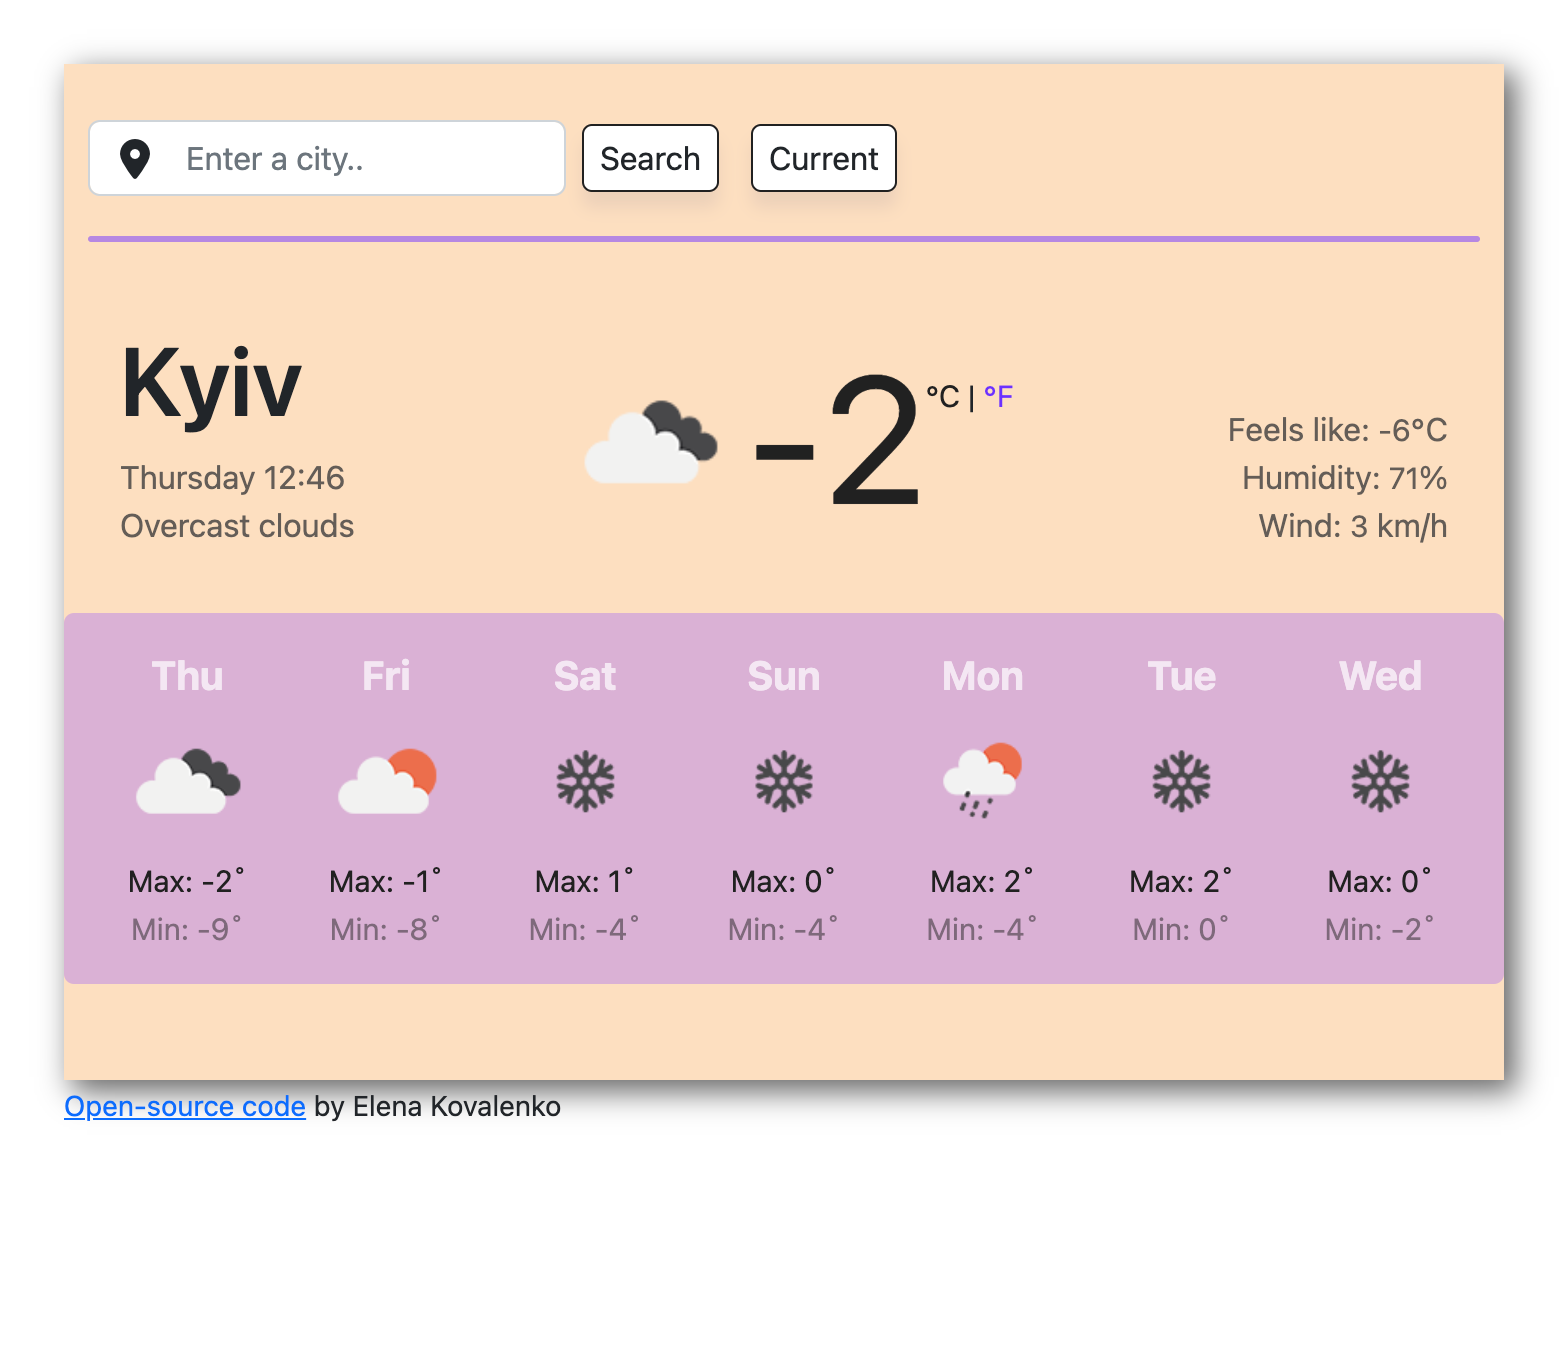
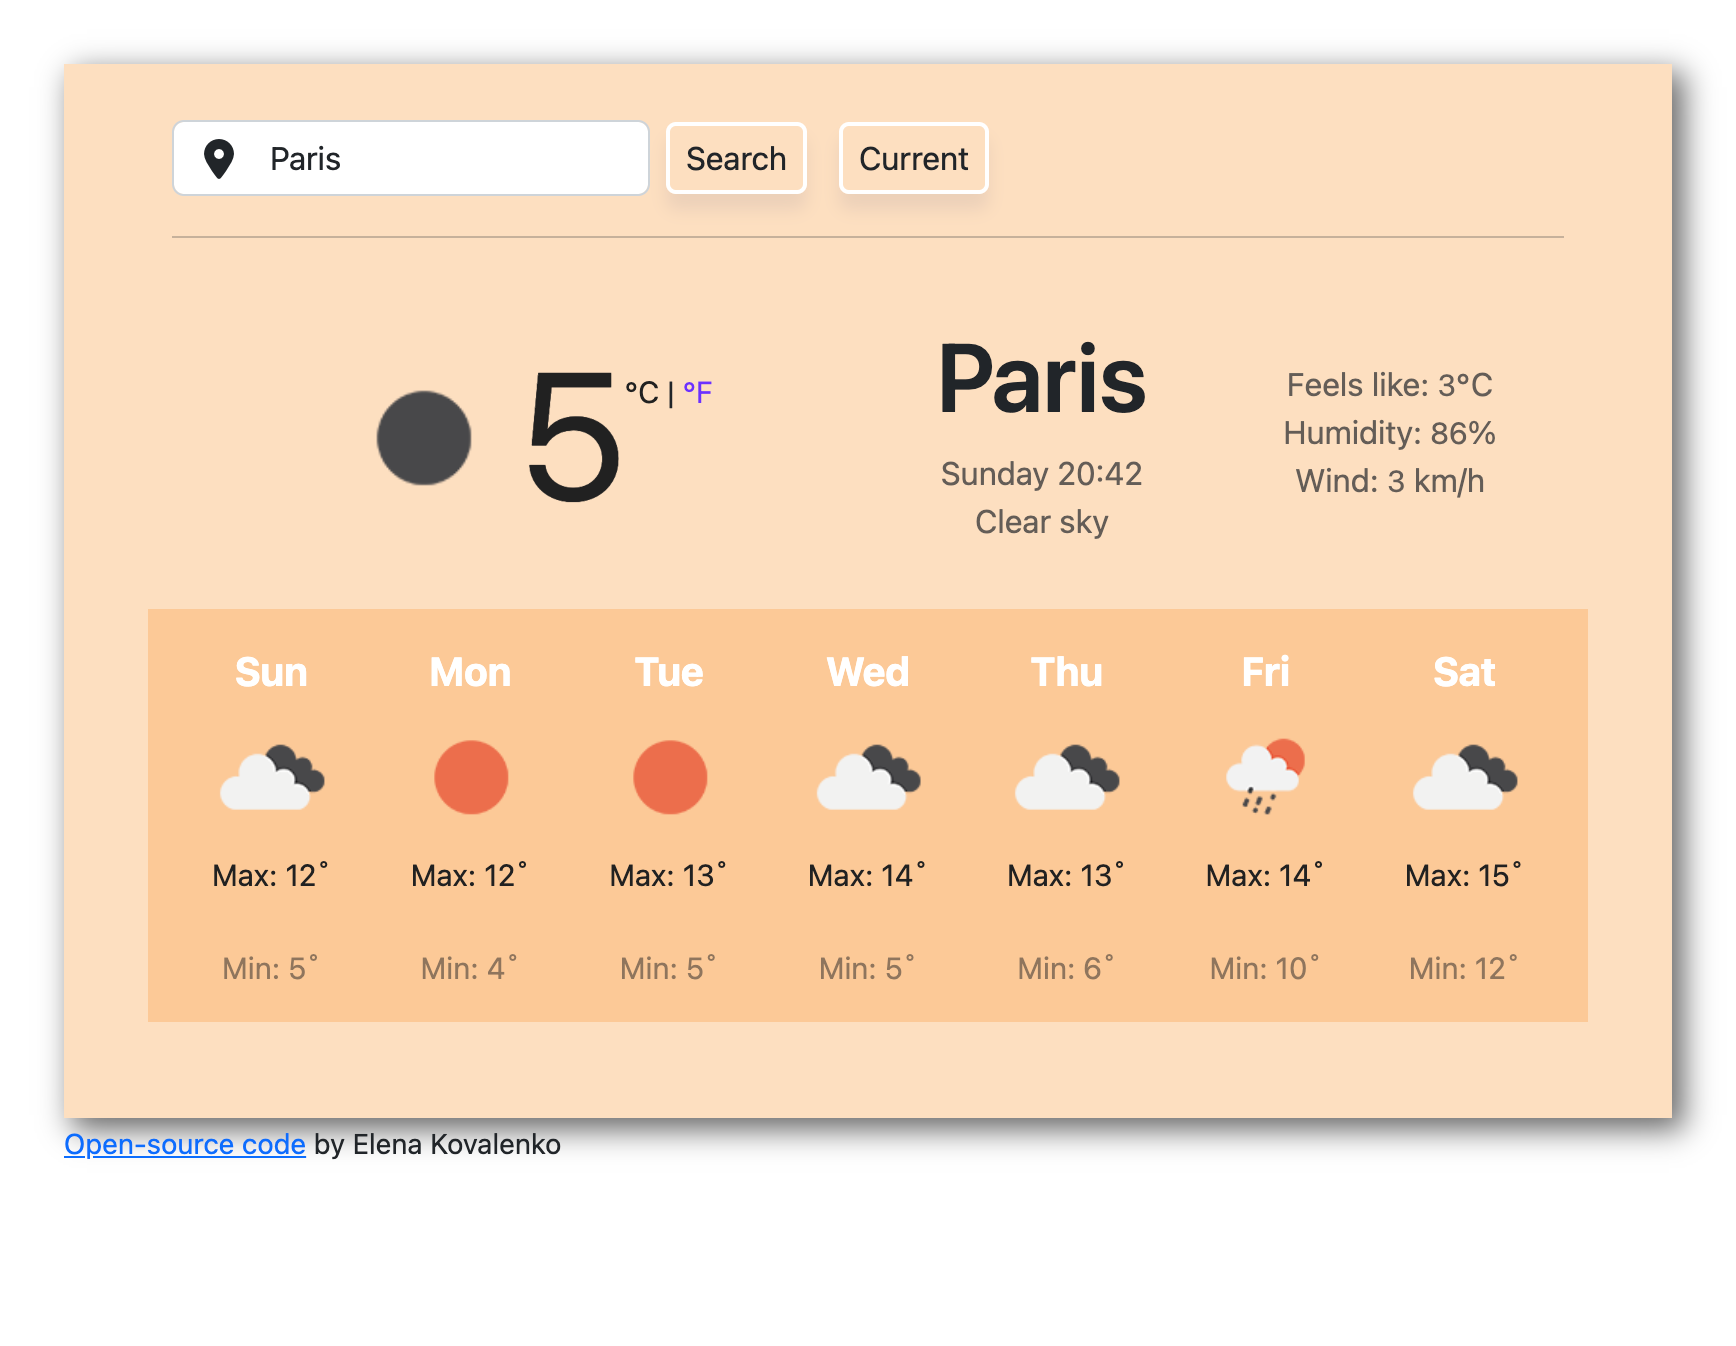
designed display for mobile forecast

diff --git a/src/style.css b/src/style.css
@@ -1,7 +1,7 @@
 :root {
     --main-color: #6c31ff;
     --background-main: #fcca979c;
-    --background-forecast: #894aff4d;
+    --background-forecast: #fcc997;
     --white: #fff;
     --border-box: rgb(108, 49, 255, .3);
     --black: rgb(33, 33, 33);
@@ -38,42 +38,6 @@ body {
     background: var(--background-main);
     justify-content: space-around;
 }
-
-
-/* .line {
-    width: 100%;
-    height: 3px;
-    border: 0 none;
-    border-radius: 5px;
-    background-color: var(--main-color);
-    opacity: .5;
-} */
-
-
-/* .city .style-a {
-    text-decoration: none;
-    color: var(--main-color);
-    font-size: 15px;
-    font-weight: 600;
-    position: relative;
-}
-
-.city .style-a:before {
-    content: '';
-    bottom: 0;
-    left: 0;
-    position: absolute;
-    width: 100%;
-    height: 2px;
-    background-color: var(--ƒ-color);
-    transition: 0.2s;
-    transform: scaleX(0);
-    opacity: 0.5;
-} */
-
-/* .city .style-a:hover:before {
-    transform: scaleX(1);
-} */
 
 .enter-city {
     position: relative;
@@ -122,9 +86,9 @@ button.btn {
 }
 
 .button.btn:hover {
-    background-color: var(--main-color) !important;
+    background-color: var(--white) !important;
     color: var(--white) !important;
-    border: 2px solid var(--main-color) !important;
+    /* border: 2px solid var(--main-color) !important; */
     opacity: .6;
 }
 
@@ -224,22 +188,20 @@ span {
 .weather-forecast {
     display: flex;
     background-color: var(--background-forecast);
-    border-radius: 5px;
+    /* border-radius: 5px; */
     padding: 1em 0;
 }
 
 .box-day {
     text-align: center;
     color: var(--black);
-    /* border: 1.3px solid var(--border-box); */
-    /* border-radius: 5px; */
     width: 100% !important;
     justify-content: center;
 }
 
 .day-of-week {
     font-size: 20px;
-    opacity: .7;
+    /* opacity: .7; */
     color: var(--white);
     font-weight: 700;
 }
@@ -250,7 +212,15 @@ span {
 }
 
 .weather-forecast-temp {
+    display: flex;
     font-size: 16px;
+    flex-direction: column;
+}
+
+.item {
+    align-items: center;
+    flex-direction: column;
+    justify-content: center;
 }
 
 @media (max-width: 576px) {
@@ -266,10 +236,14 @@ span {
     .main {
         display: flex;
         flex-direction: column;
-        flex-wrap: wrap;
         justify-content: center;
+        align-items: center;
     }
 
+    .weather-forecast-temp {
+        font-size: 16px;
+        flex-direction: row;
+    }
 }
 
 @media (max-width: 768px) {
@@ -282,12 +256,24 @@ span {
         align-items: center;
     }
 
+    .main {
+        display: flex;
+        flex-direction: column;
+        justify-content: center;
+        align-items: center;
+    }
 
-    /* img.img-fluid {
-        padding: 0;
-        width: 84px;
-        height: 84px;
-    } */
+    .inner-box-day {
+        flex-direction: row;
+        justify-content: center;
+        align-items: center;
+    }
+
+    .weather-forecast-temp {
+        font-size: 16px;
+        flex-direction: row;
+    }
+
 }
 
 @media (min-width: 992px) {}
@@ -295,10 +281,6 @@ span {
 @media (min-width: 1200px) {
     body {
         padding: 5em 15em;
-    }
-
-    .weather-forecast {
-        flex-wrap: nowrap;
     }
 }
 

diff --git a/index.html b/index.html
@@ -39,15 +39,11 @@
             </form>
             <hr class="line" />
         </div>
-       
+
         <div class="container d-flex mx-3 mt-3 mb-4">
             <div class="container main p-0">
-                <div class="col-xl-4 col-md-3 d-flex flex-column align-items-start mb-2 ">
-                    <h1 id="city">Kyiv</h1>
-                    <div class="my-0" id="day-time"></div>
-                    <div class="my-0" id="description"></div>
-                </div>
-                <div class="col-xl-4 col-md-6 d-flex justify-content-center align-items-top mb-2" id="current-degree">
+
+                <div class="item col-xl-4 col-md-6 d-flex  mb-2" id="current-degree">
                     <div class="clearfix weather-temperature">
                         <img src="" alt="Clear" id="icon" />
                         <span class="temperature" id="temperature"></span>
@@ -57,13 +53,18 @@
                         </span>
                     </div>
                 </div>
-                <div class="col-xl-4 col-md-3 d-flex flex-column justify-content-end align-items-end mb-2">
+                <div class="item col-xl-4 col-md-3 d-flex mb-2 ">
+                    <h1 id="city">Kyiv</h1>
+                    <div class="my-0" id="day-time"></div>
+                    <div class="my-0" id="description"></div>
+                </div>
+                <div class="item col-xl-4 col-md-3 d-flex mb-2">
                     <div class="my-0 precipitation">Feels like: <span id="feels"></span>℃</div>
                     <div class="my-0 humidity">Humidity: <span id="humidity"></span>%</div>
                     <div class="my-0 wind">Wind: <span id="wind"></span> km/h</div>
                 </div>
             </div>
-            
+
         </div>
         <div class="container p-0 d-flex justify-content-center">
             <div class="container weather-forecast d-flex" id="forecast"> </div>

diff --git a/src/weather-api.js b/src/weather-api.js
@@ -53,7 +53,7 @@ function displayForecast(response) {
                 `
         <div class = "box-day" >
         <div class="container inner-box-day d-flex">
-            <div class = "col-sm day-of-week align-items-center " > ${
+            <div class = "day-of-week align-items-center " > ${
                 formatDay(forecastDay.dt)
             } </div>
                 <div><img class="img-fluid" src="http://openweathermap.org/img/wn/${forecastDay.weather[0].icon}@2x.png"
